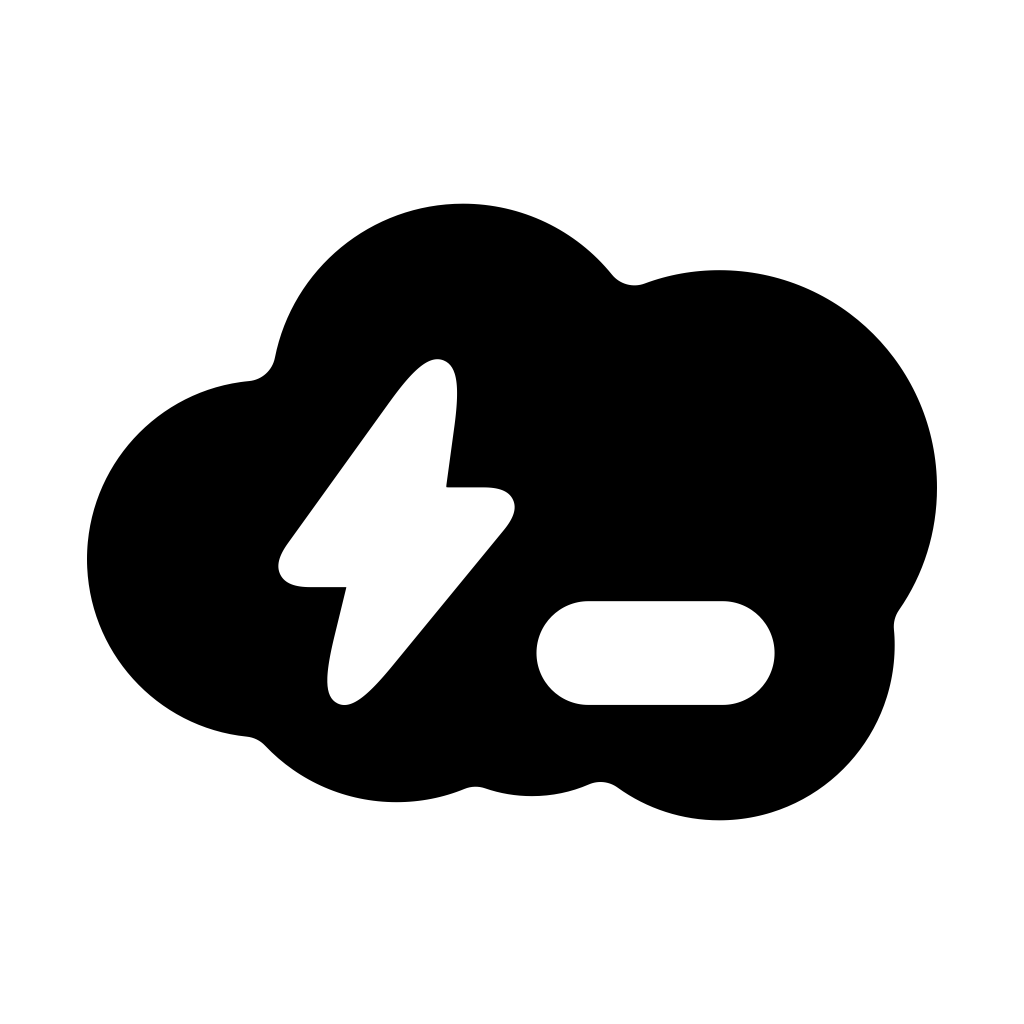
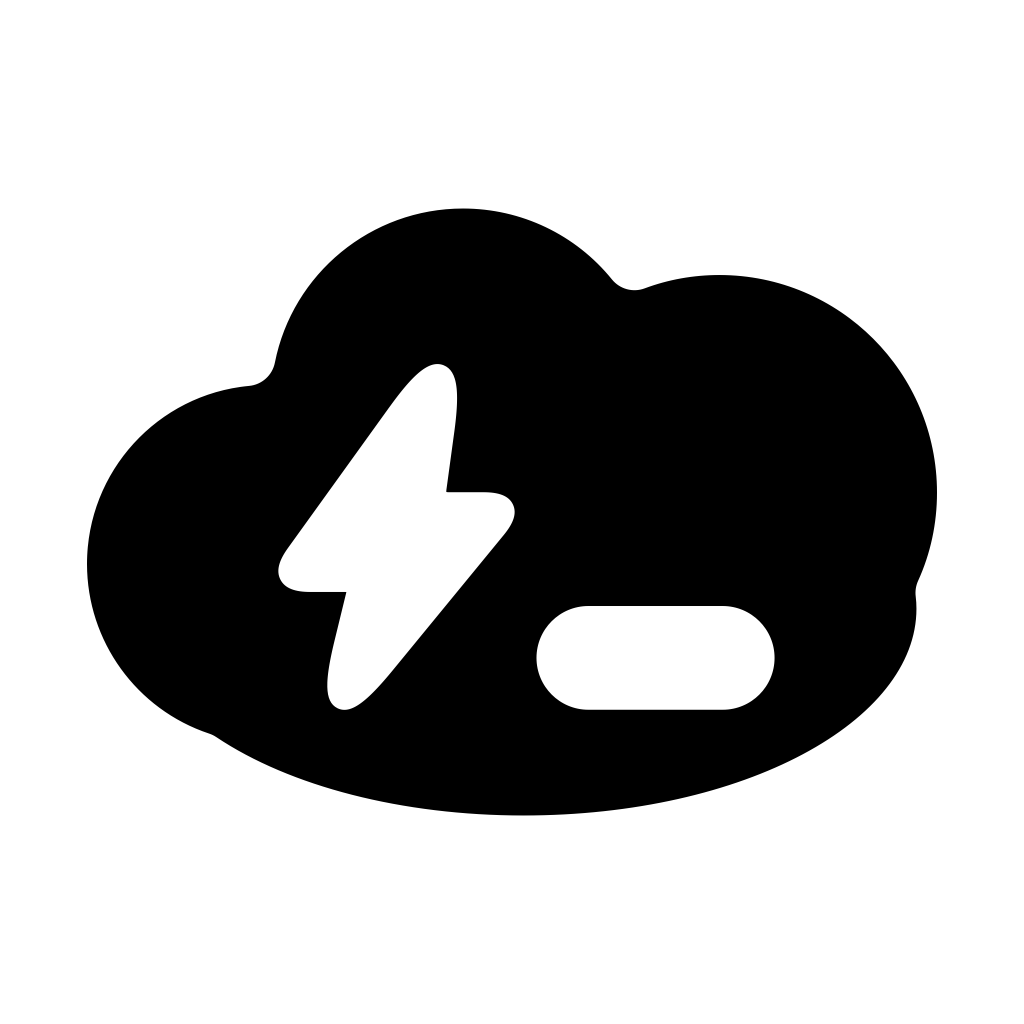
Smooth the asymmetric cloud lower silhouette

diff --git a/scripts/assets/build_liquid_glass_icons.swift b/scripts/assets/build_liquid_glass_icons.swift
@@ -14,9 +14,8 @@ func closeCorners(_ shape:CGPath,_ radius:CGFloat)->CGPath { inset(expand(shape,
 let round=circle(463,404,159)
     .union(circle(300,539,148))
     .union(circle(675,480,180))
-    .union(circle(408,590,150))
-    .union(circle(675,610,145))
-    .union(circle(520,615,120))
+    // One broad elliptical belly replaces three small lower scallops.
+    .union(CGPath(ellipseIn:CGRect(x:188,y:405,width:650,height:342),transform:nil))
 let capsule=CGPath(roundedRect:CGRect(x:140,y:362,width:744,height:374),cornerWidth:172,cornerHeight:172,transform:nil)
 let flat=closeCorners(capsule.union(circle(512,385,174)),16)
 let rounded=closeCorners(round,24)

diff --git a/assets/app-icon/liquid-glass/README.md b/assets/app-icon/liquid-glass/README.md
@@ -14,7 +14,7 @@ SVG source and the matching menu-bar templates. Do not trace photographic
 highlights into the outline.
 
 The rounded cloud has a lower, left-offset main peak, a larger raised right
-shoulder, and a curved lower outline. This avoids a rocket-like symmetric
+shoulder, and one broad elliptical lower outline without small scallops. This avoids a rocket-like symmetric
 silhouette. Filled-cloud menu glyphs keep the same center as their Dock glyphs;
 there is no separate upward shift. The flat and open variants keep balanced
 geometry.
